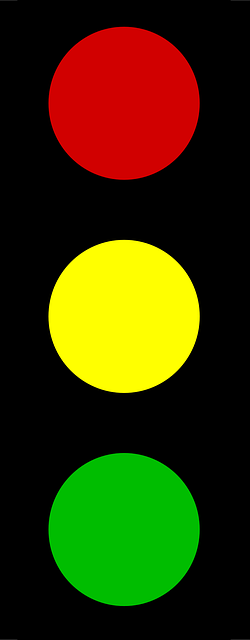
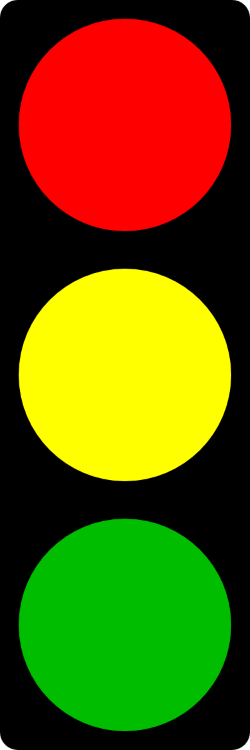
Anpassung Bilder und Name

diff --git a/src/de/tudresden/tls/Main.java b/src/de/tudresden/tls/Main.java
@@ -47,7 +47,7 @@ public class Main extends Application {
 			mainWindowController.setMain(this);
 			Scene scene = new Scene(pane);
 			primaryStage.setScene(scene);
-			primaryStage.setTitle("WILSA.calc");
+			primaryStage.setTitle("openLSA");
 			primaryStage.show();
 		} catch (IOException e) {
 			e.printStackTrace();

diff --git a/src/de/tudresden/tls/Signalgeber.java b/src/de/tudresden/tls/Signalgeber.java
@@ -71,8 +71,8 @@ public class Signalgeber {
 		default:
 			view.setImage(p0);
 		}
-		view.setFitWidth(23);
-		view.setFitHeight(66);
+		view.setFitWidth(25);
+		view.setFitHeight(75);
 		zf.pane.getChildren().addAll(view);
 		zf.Signalgeberlist.add(this);
 	}
